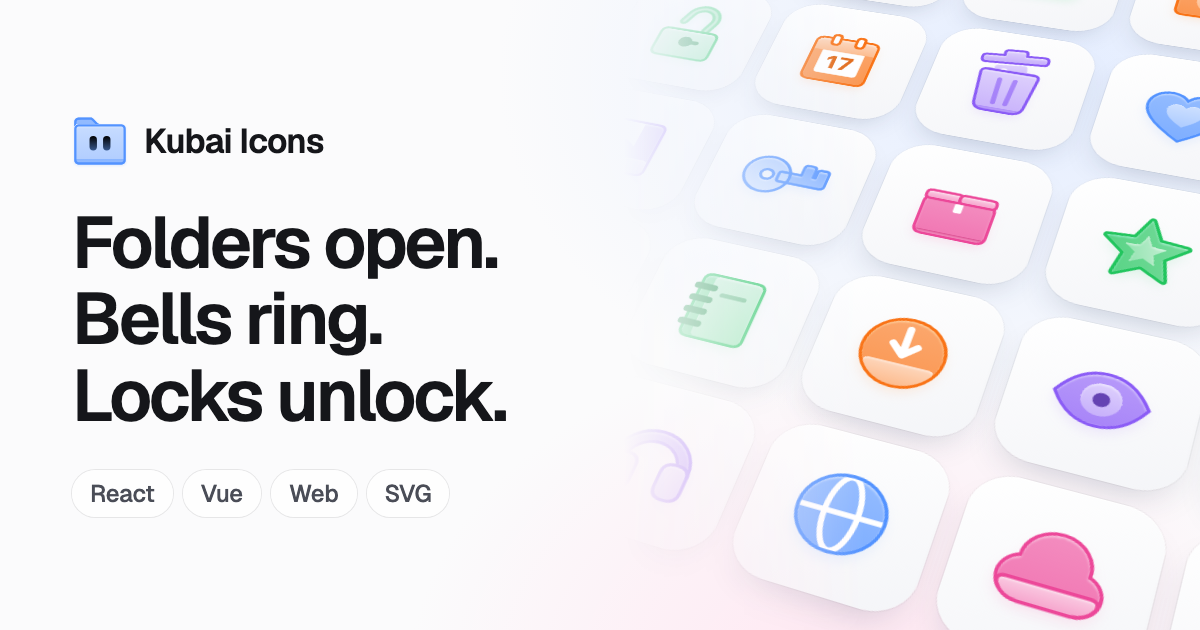
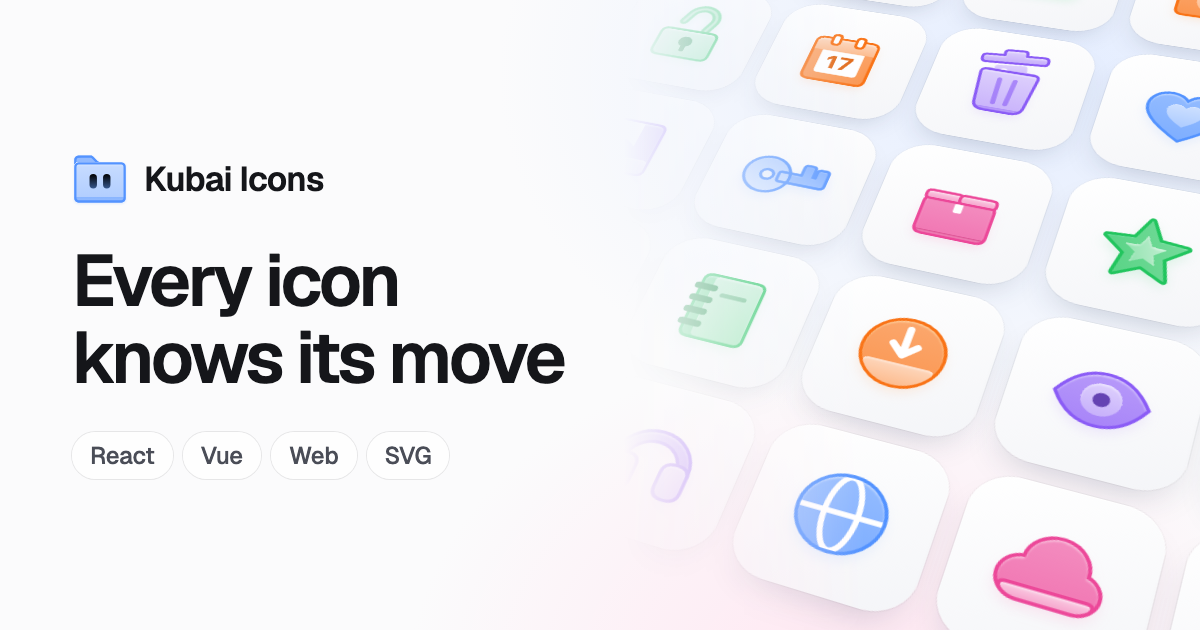
feat(site): rewrite the English headline
"Every icon knows its move" says what sets the library apart in one
line, and puts English on the same layout as every other language.
The share image follows.

Changed region(s): [[0.0617, 0.181, 0.4933, 0.8143], [0.8325, 0.8444, 0.925, 0.9952], [0.1542, 0.6937, 0.2158, 0.8143]]

diff --git a/site/src/components/hero-headline.tsx b/site/src/components/hero-headline.tsx
@@ -2,16 +2,15 @@
 import { useEffect, useRef, useState } from "react";
 import { STORY, useHeroBeat } from "@/components/hero-wall";
 import { cn } from "@/lib/utils";
-import { msg, type Locale } from "@/lib/i18n";
-import { useLocale, useTr } from "@/lib/use-locale";
+import type { Locale } from "@/lib/i18n";
+import { useLocale } from "@/lib/use-locale";
 import { HERO_TITLE_ZH } from "@/components/hero-title-zh";
 
-const LINES = [msg("Folders open."), msg("Bells ring."), msg("Locks unlock.")];
 /**
  * The headline as each language would say it: the words before and after the playing icon.
- * Languages not listed use the English lines.
  */
-const SLOGANS: Partial<Record<Locale, readonly [string, string]>> = {
+const SLOGANS: Record<Locale, readonly [string, string]> = {
+  en: ["Every icon", "knows its move"],
   zh: ["让图标", "动起来"],
   "zh-hant": ["讓圖示", "動起來"],
   ja: ["アイコンに", "命を"],
@@ -50,7 +49,7 @@ function OutlinedPhrase({ text }: { text: string }) {
   );
 }
 
-/** The headline: each line lights up and plays its icon, in step with the icon wall. */
+/** The headline, with the icons of the wall's story playing inside it. */
 export function HeroHeadline({ className }: { className?: string }) {
   const ref = useRef<HTMLHeadingElement>(null);
   const [visible, setVisible] = useState(false);
@@ -62,55 +61,30 @@ export function HeroHeadline({ className }: { className?: string }) {
     return () => observer.disconnect();
   }, []);
   const beat = useHeroBeat(visible);
-  const tr = useTr();
   const locale = useLocale();
-  const slogan = SLOGANS[locale];
-
-  if (slogan) {
-    const [before, after] = slogan;
-    const slot = (
-        /* The icons of the wall's story take turns here, each playing as its beat comes. */
-        <span aria-hidden className="grid size-[1em] shrink-0 *:[grid-area:1/1]">
-          {STORY.map(({ Icon, color }, i) => (
-            <Icon key={i} size={48} color={color} trigger="none" hover={beat === i} className={cn("size-full transition-opacity duration-300 motion-reduce:transition-none", (beat ?? 0) !== i && "opacity-0")} />
-          ))}
-        </span>
-    );
-    if (ONE_LINE.has(locale)) {
-      return (
-        <h1 ref={ref} className={cn(className, "flex items-center whitespace-nowrap", locale === "ko" ? "gap-[.2em]" : "gap-[.06em]")}>
-          <OutlinedPhrase text={before} />
-          {slot}
-          <OutlinedPhrase text={after} />
-        </h1>
-      );
-    }
-    const longest = Math.max(before.length + 2, after.length);
+  const [before, after] = SLOGANS[locale];
+  const slot = (
+      /* The icons of the wall's story take turns here, each playing as its beat comes. */
+      <span aria-hidden className="grid size-[1em] shrink-0 *:[grid-area:1/1]">
+        {STORY.map(({ Icon, color }, i) => (
+          <Icon key={i} size={48} color={color} trigger="none" hover={beat === i} className={cn("size-full transition-opacity duration-300 motion-reduce:transition-none", (beat ?? 0) !== i && "opacity-0")} />
+        ))}
+      </span>
+  );
+  if (ONE_LINE.has(locale)) {
     return (
-      <h1 ref={ref} className={cn(className, TALL_SCRIPTS.has(locale) && "leading-[1.35]", "[&>span]:[font-size:min(1em,calc(15em/var(--longest)))] lg:[&>span]:[font-size:min(1em,calc(17em/var(--longest)))]")} style={{ "--longest": longest } as React.CSSProperties}>
-        <span className="flex items-center gap-[.24em]">{before}{slot}</span>{" "}
-        <span className="block">{after}</span>
+      <h1 ref={ref} className={cn(className, "flex items-center whitespace-nowrap", locale === "ko" ? "gap-[.2em]" : "gap-[.06em]")}>
+        <OutlinedPhrase text={before} />
+        {slot}
+        <OutlinedPhrase text={after} />
       </h1>
     );
   }
-
-  const lines = LINES.map((line) => tr(line, line));
-
-  // Longer lines in other languages shrink to fit, so each stays on one line beside its icon.
-  const longest = Math.max(...lines.map((line) => line.length));
+  const longest = Math.max(before.length + 2, after.length);
   return (
-    <h1 ref={ref} className={cn(className, "[&>span]:[font-size:min(1em,calc(16em/var(--longest)))] lg:[&>span]:[font-size:min(1em,calc(19em/var(--longest)))]")} style={{ "--longest": longest } as React.CSSProperties}>
-      {lines.map((line, i) => {
-        const { Icon, color } = STORY[i];
-        return (
-          <span key={line}>
-            <span className={cn("flex items-center gap-[.24em] transition-colors duration-300 motion-reduce:transition-none", beat !== null && beat !== i && "text-muted-foreground/70")}>
-              {line}
-              <Icon size={48} color={color} trigger="none" hover={beat === i} className="size-[.8em] shrink-0" />
-            </span>{" "}
-          </span>
-        );
-      })}
+    <h1 ref={ref} className={cn(className, TALL_SCRIPTS.has(locale) && "leading-[1.35]", "[&>span]:[font-size:min(1em,calc(15em/var(--longest)))] lg:[&>span]:[font-size:min(1em,calc(17em/var(--longest)))]")} style={{ "--longest": longest } as React.CSSProperties}>
+      <span className="flex items-center gap-[.24em]">{before}{slot}</span>{" "}
+      <span className="block">{after}</span>
     </h1>
   );
 }
